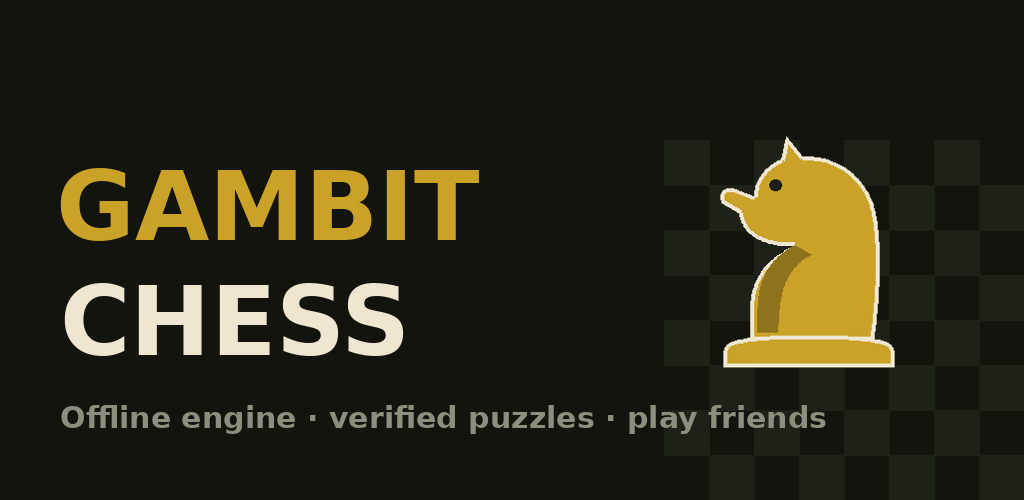
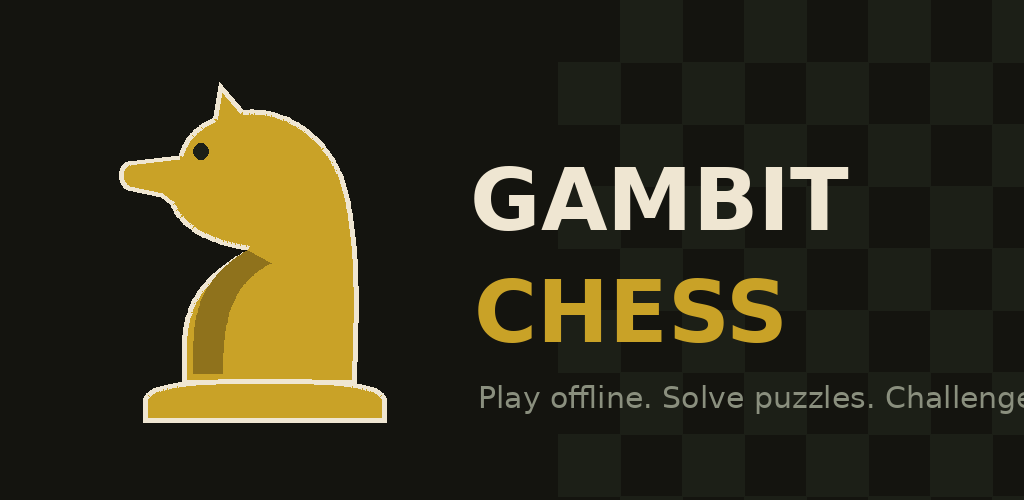
Field-test fixes (3 user reports, all confirmed): 1. Puzzle board no longer rotates on a correct answer (orientation anchored to    the solver's starting seat, not the live side-to-move) 2. Store-user online: baked default server via CI secrets (players need zero    setup), Settings demoted to advan

Changed region(s): [[0.0312, 0.18, 1.0, 0.87]]

diff --git a/app/src/main/java/com/chessapp/ui/board/PieceRenderer.kt b/app/src/main/java/com/chessapp/ui/board/PieceRenderer.kt
@@ -69,7 +69,7 @@ object PieceRenderer {
             moveTo(19.5f, 15f); lineTo(25.5f, 15f)
         }
         PieceType.KNIGHT -> Path().apply { // eye
-            addOvalCompat(18.0f, 12.8f, 19.6f, 14.4f)
+            addOvalCompat(14.2f, 10.2f, 16.0f, 12.0f)
         }
         else -> null
     }
@@ -112,18 +112,21 @@ object PieceRenderer {
     }
 
     private fun knight(): Path = Path().apply {
-        moveTo(14f, 35.8f)
-        lineTo(14f, 33f)
-        cubicTo(14f, 28f, 16.5f, 25.5f, 20.5f, 23.5f)
-        cubicTo(17f, 23.5f, 13.5f, 22f, 13f, 18.5f)
-        lineTo(11f, 16f)
-        cubicTo(10.3f, 14.8f, 11.2f, 13.8f, 12.6f, 14.3f)
-        lineTo(14.6f, 15.3f)
-        cubicTo(14.6f, 12.6f, 16.2f, 10.2f, 18.6f, 8.8f)
-        lineTo(19.6f, 5.6f)
-        lineTo(21.8f, 8.6f)
-        cubicTo(27f, 8.2f, 31f, 12f, 32.2f, 17.5f)
-        cubicTo(33.4f, 23f, 33.2f, 29f, 32.2f, 35.8f)
+        // Staunton profile v5: deep blunt down-sloping muzzle, low brow, swept
+        // ear, smooth arched crest — tuned to read as a horse at 44 px.
+        moveTo(13.0f, 35.8f)
+        lineTo(13.0f, 33.5f)
+        cubicTo(13.0f, 28.0f, 16.0f, 25.0f, 20.5f, 22.5f)
+        cubicTo(16.5f, 22.0f, 12.6f, 20.2f, 11.6f, 17.2f)
+        lineTo(10.6f, 16.4f)
+        lineTo(6.8f, 15.6f)
+        cubicTo(5.4f, 15.2f, 5.3f, 12.6f, 6.8f, 12.3f)
+        lineTo(12.6f, 11.6f)
+        cubicTo(13.1f, 9.6f, 14.6f, 8.1f, 16.6f, 7.3f)
+        lineTo(17.2f, 3.2f)
+        lineTo(20.0f, 6.4f)
+        cubicTo(24.5f, 5.9f, 29.2f, 8.6f, 31.4f, 13.8f)
+        cubicTo(33.6f, 19.8f, 33.4f, 29.0f, 33.0f, 35.8f)
         close()
         base()
     }

diff --git a/app/src/androidTest/java/com/chessapp/E2eFeaturePackTest.kt b/app/src/androidTest/java/com/chessapp/E2eFeaturePackTest.kt
@@ -59,14 +59,24 @@ class E2eFeaturePackTest {
         rule.onNodeWithText("Skip").assertIsDisplayed()   // board controls live again
     }
 
-    /** Without Firebase config, Online explains setup and links to Settings. */
+    /** Online entry must land somewhere sane in BOTH build modes: setup card
+     *  (no baked server) or the lobby (server baked in via CI secrets). */
     @Test
-    fun online_unconfiguredShowsSetupPath() {
+    fun online_entryShowsSetupOrLobby() {
         waitForText("Play Online")
         rule.onNodeWithText("Play Online").performClick()
-        waitForText("One-time setup needed")
-        rule.onNodeWithText("Open Settings").performClick()
-        waitForText("Sound effects")
+        rule.waitUntil(40_000) {
+            rule.onAllNodesWithText("One-time setup needed").fetchSemanticsNodes().isNotEmpty() ||
+            rule.onAllNodesWithText("Start a game with a friend").fetchSemanticsNodes().isNotEmpty()
+        }
+        val setup = rule.onAllNodesWithText("One-time setup needed")
+            .fetchSemanticsNodes().isNotEmpty()
+        if (setup) {
+            rule.onNodeWithText("Open Settings").performClick()
+            waitForText("Sound effects")
+        } else {
+            rule.onNodeWithText("Join with a code").assertIsDisplayed()
+        }
     }
 
     /** Engine section is present; on x86_64 emulators the placeholder .so must be

diff --git a/app/src/main/java/com/chessapp/ui/online/OnlineScreen.kt b/app/src/main/java/com/chessapp/ui/online/OnlineScreen.kt
@@ -108,10 +108,10 @@ private fun SetupCard(onOpenSettings: () -> Unit) {
                 fontWeight = FontWeight.Bold)
             Spacer(Modifier.height(8.dp))
             Text(
-                "Online play runs on your own free Firebase project, so your games " +
-                "stay yours. It takes about five minutes: create a project, enable " +
-                "Anonymous sign-in and Firestore, then paste the Project ID and Web " +
-                "API key into Settings. Full steps: SERVER_SETUP.md in the source repo.",
+                "This build doesn't include a game server yet, so online play is " +
+                "switched off. Built the app yourself? Adding a free server takes " +
+                "about five minutes \u2014 open Settings \u2192 Online play, and see " +
+                "SERVER_SETUP.md in the source repository for the walkthrough.",
                 color = MUTED, fontSize = 14.sp, lineHeight = 20.sp
             )
             Spacer(Modifier.height(14.dp))

diff --git a/app/src/main/java/com/chessapp/ui/online/OnlineViewModel.kt b/app/src/main/java/com/chessapp/ui/online/OnlineViewModel.kt
@@ -64,7 +64,11 @@ class OnlineViewModel(app: Application) : AndroidViewModel(app) {
             prefs.settings.collect { s ->
                 soundOn = s.soundEnabled
                 hapticsOn = s.hapticsEnabled
-                val newCfg = s.onlineProjectId to s.onlineApiKey
+                // In-app values are an advanced override; the baked default
+                // (if this build has one) makes online work out of the box.
+                val newCfg =
+                    s.onlineProjectId.ifBlank { com.chessapp.BuildConfig.DEFAULT_ONLINE_PROJECT_ID } to
+                    s.onlineApiKey.ifBlank { com.chessapp.BuildConfig.DEFAULT_ONLINE_API_KEY }
                 val configured = newCfg.first.isNotBlank() && newCfg.second.isNotBlank()
                 if (newCfg != cfg && _state.value.phase == OnlineUiState.Phase.LOBBY) {
                     cfg = newCfg

diff --git a/app/src/main/java/com/chessapp/ui/puzzle/PuzzleViewModel.kt b/app/src/main/java/com/chessapp/ui/puzzle/PuzzleViewModel.kt
@@ -138,7 +138,9 @@ class PuzzleViewModel(app: Application) : AndroidViewModel(app) {
             ),
             index = index, total = bank.size,
             solvedCount = solvedIds.count { id -> bank.any { it.id == id } },
-            sideToMove = b.sideToMove,
+            // The board must NOT rotate when the turn passes mid-puzzle: the
+            // solver's seat is fixed by the STARTING position, not the live board.
+            sideToMove = com.chessapp.domain.model.Board.fromFen(puzzle().fen).sideToMove,
             message = message ?: _state.value.message,
             solved = session.isSolved,
             wrong = wrong,

diff --git a/app/src/main/java/com/chessapp/ui/settings/SettingsScreen.kt b/app/src/main/java/com/chessapp/ui/settings/SettingsScreen.kt
@@ -101,7 +101,8 @@ fun SettingsScreen(repo: SettingsRepository, onBack: () -> Unit) {
             Text("Save online settings", color = BRASS)
         }
         Text(
-            "Free 5-minute setup \u2014 see SERVER_SETUP.md in the source repo.",
+            "Optional \u2014 leave blank to use this build's default server. " +
+            "To host your own free server instead (\u224815 min), see SERVER_SETUP.md in the source repo.",
             color = MUTED, fontSize = 12.sp, modifier = Modifier.padding(horizontal = 20.dp)
         )
 

diff --git a/SERVER_SETUP.md b/SERVER_SETUP.md
@@ -17,3 +17,13 @@ Trust model: games are private friendly matches. Both clients validate every
 move with the same engine; Firestore rules restrict writes to the two players.
 For a public/ranked mode, deploy the server-authoritative Cloud Functions in
 `functions/` instead (requires the Blaze plan).
+
+## Shipping to app-store users (zero setup for them)
+Do the steps above once yourself, then put the two values into repo secrets
+GAMBIT_ONLINE_PROJECT_ID and GAMBIT_ONLINE_API_KEY. CI bakes them into every
+build as the default server: players just tap Play Online. (These values are
+public identifiers by design — security lives in firestore.rules — the secrets
+are for convenience, not confidentiality.) The in-app Settings fields remain
+as an advanced override for self-hosters. Free-tier headroom: polling costs
+roughly 1.5K reads per player-hour against the 50K/day Spark quota — fine for
+a small community; upgrade to Blaze (pennies) if it ever grows past that.

diff --git a/RELEASE.md b/RELEASE.md
@@ -9,6 +9,11 @@ means you can never update the app again (unless you enroll in Play App
 Signing, which is recommended at first upload — Play then holds the app key
 and your keystore becomes the upload key).
 
+## One-time: switch on online play for store users
+Set repo secrets GAMBIT_ONLINE_PROJECT_ID and GAMBIT_ONLINE_API_KEY (see
+SERVER_SETUP.md, "Shipping to app-store users"). Skip this and the store build
+ships with online play showing a setup notice instead.
+
 ## One-time: give CI the key (4 repository secrets)
 Repo -> Settings -> Secrets and variables -> Actions -> New repository secret:
 - GAMBIT_KEYSTORE_B64        the .jks file, base64-encoded (single line)
